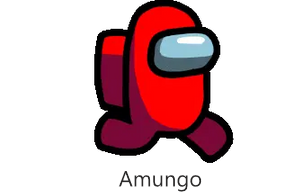
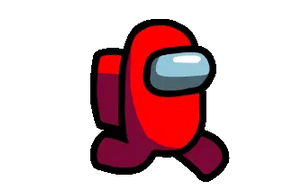
added tool tips for projects

Changed region(s): [[0.2961, 0.0, 0.7697, 0.9796]]

diff --git a/src/components/Home.js b/src/components/Home.js
@@ -23,6 +23,16 @@ const Home = () => {
     const toggleLeagueAPI = () =>{
         setLeagueModal(!LeagueAPIModal);
     }
+    const ProjectHover = ({func, tip, pic, text = "tooltip", bg="color"} ) => {
+        return(
+            <div className={`min-h-[250px] min-w-[250px] w-[250px] flex items-center justify-center text-3xl border-8 hover:border-blue-600 transition-colors duration-500 group ${bg} hover:bg-slate-50`} role='button' onClick={func}>
+                <img className='w-full h-full object-contain group-hover:scale-0' alt={tip} src={pic}></img>
+                <span className="absolute scale-0 group-hover:scale-100 justify-center items-center">
+                    <div className="text-xl">{text}</div>
+                </span>
+            </div>
+        )
+    };
     return(
         <div>
             {/* Picture */}
@@ -79,16 +89,9 @@ const Home = () => {
             {/* Projects section */}
             <div className='relative flex justify-center text-5xl bg-white pt-[3%] pb-[3%] text-red-400' style={{fontFamily: "'Space Mono', Arial, serif"}}>Projects</div>
             <div className='flex relative w-full h-full bg-white px-[10%] flex-wrap justify-evenly pb-[5%]'>
-                <div className='min-h-[250px] min-w-[250px] w-[250px] flex items-center justify-center bg-slate-950 text-3xl border-8 hover:border-blue-600 transition-colors duration-1000' role='button' onClick={toggleFitcheck}>
-                    <img className='w-full h-full object-contain ' alt='FitCheck' src={FitCheckLogo}></img>
-                </div>
-                <div className='min-h-[250px] min-w-[250px] w-[250px] flex items-center justify-center bg-slate-50 text-3xl border-8 hover:border-blue-600 transition-colors duration-1000' role='button' onClick={toggleAmungo}>
-                    <img className='w-full h-full object-contain' alt='Amungo' src={Amungo}></img>
-                </div>
-                <div className='min-h-[250px] min-w-[250px] w-[250px] flex flex-col items-center justify-center bg-slate-50 text-3xl border-8 hover:border-blue-600 transition-colors duration-1000' role='button' onClick={toggleLeagueAPI}>
-                        <img className='w-full h-full object-Fill' alt='League' src={League}></img>
-                        <text>League API</text>
-                </div>
+                <ProjectHover tip='FitCheck' pic={FitCheckLogo} text="Fitcheck" func={toggleFitcheck} bg="bg-slate-950"/>
+                <ProjectHover tip='Amungo' pic={Amungo} text="Amungo" func={toggleAmungo} bg="bg-slate-50"/>
+                <ProjectHover tip='LeaugeAPI' pic={League} text="League of Legends API" func={toggleLeagueAPI} bg="bg-slate-50"/>
             </div>
             <FitCheckModal FCModal = {FCModal} setFCModal={setFCModal}/>
             <AmungoModal AModal = {AModal} setAModal={setAModal}/>
